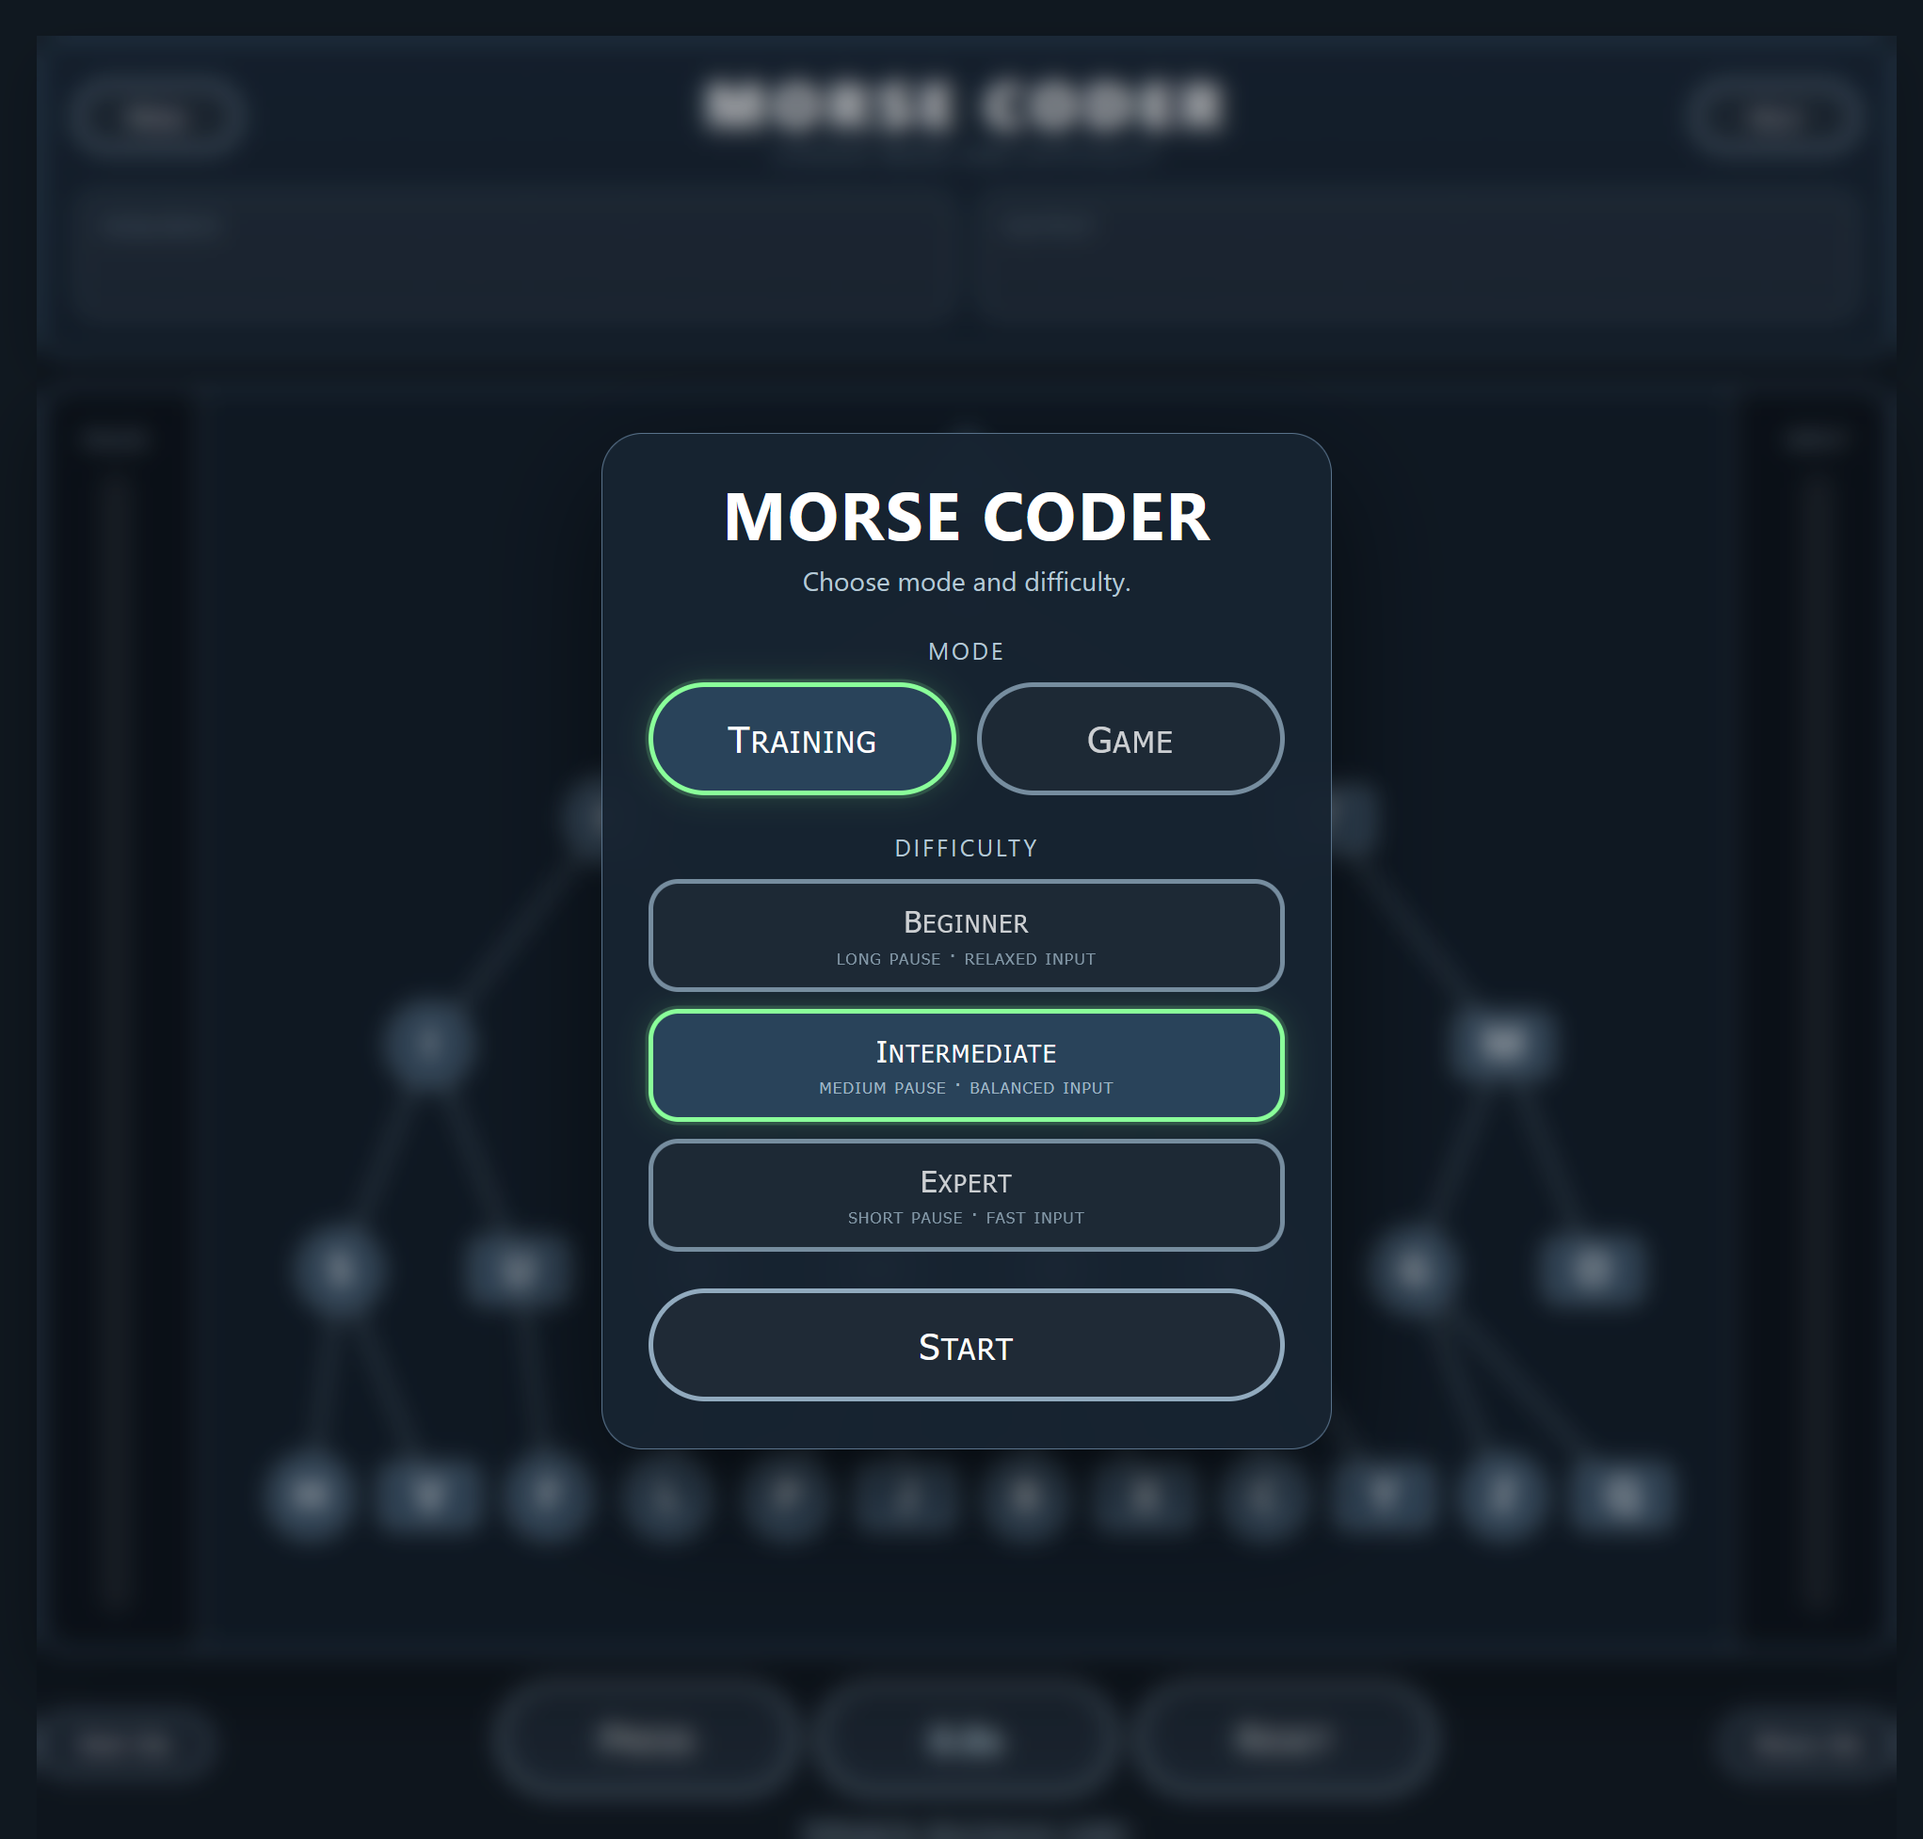
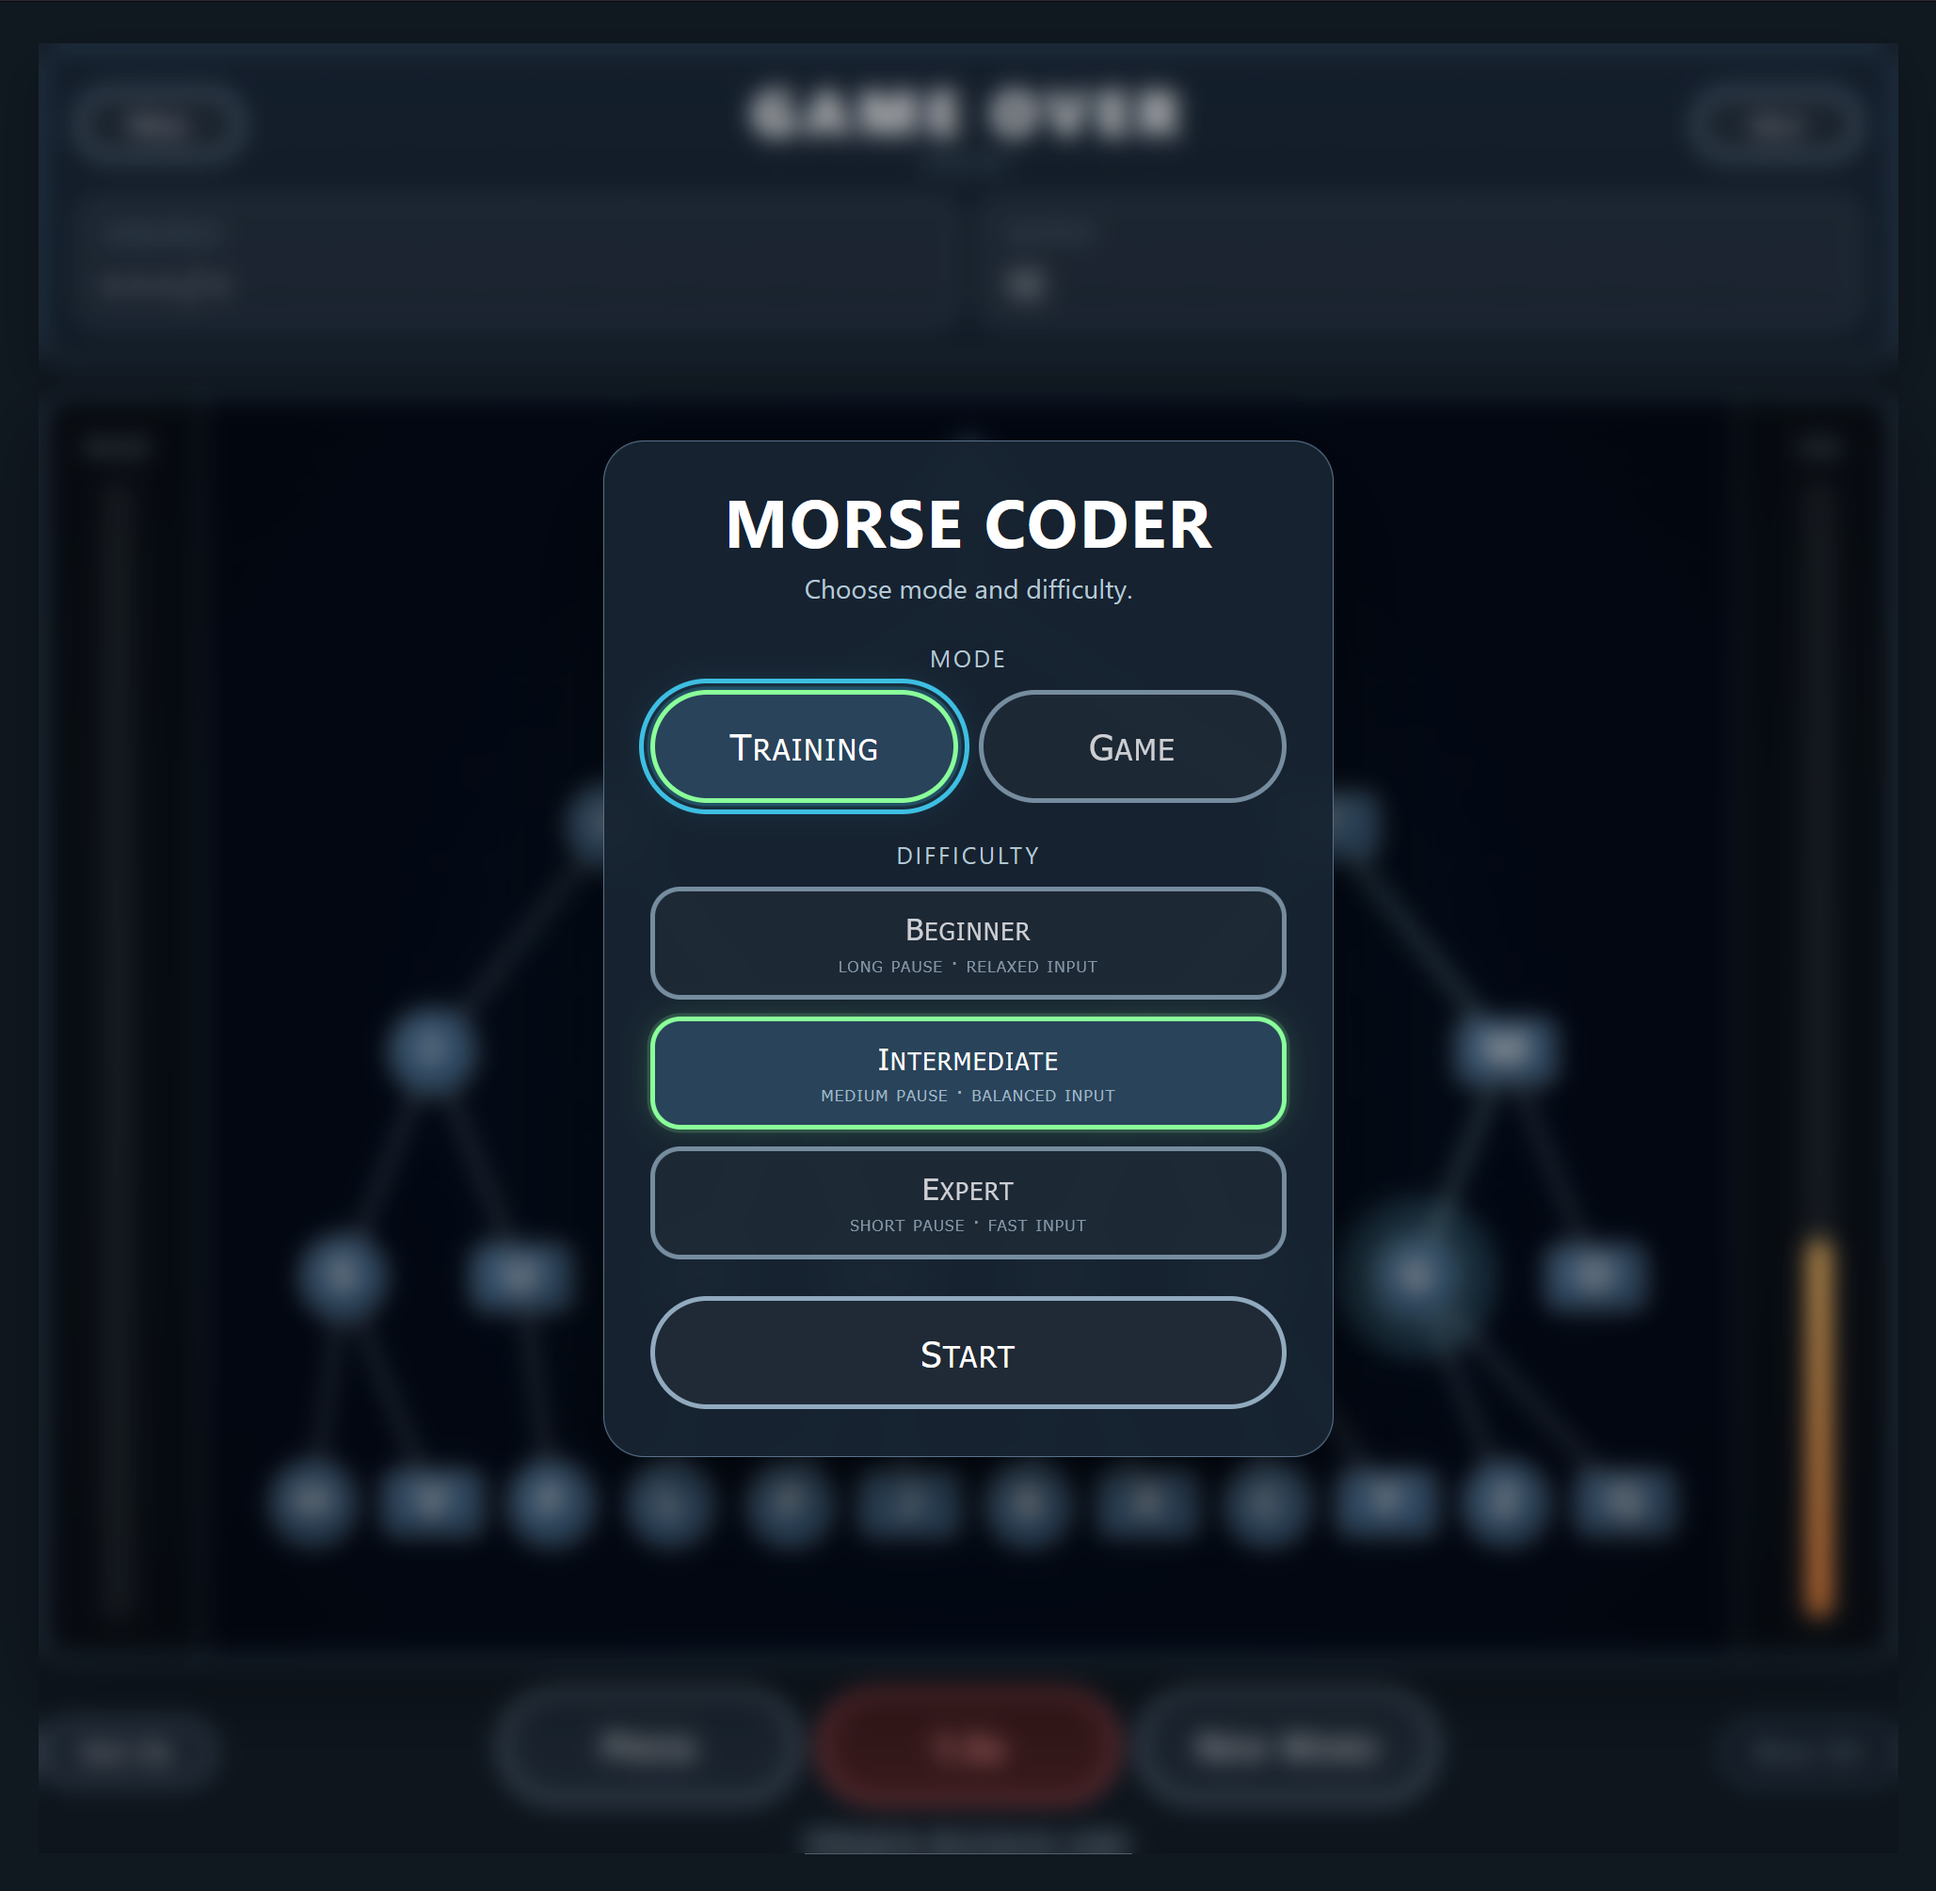
add fx & style, update screenshots

diff --git a/js/app.js b/js/app.js
@@ -154,6 +154,16 @@ const CONFIG = {
 
   NODE_BORDER_THICKNESS: 0.032,
   NODE_VISUAL_PADDING: 0.12,
+  NODE_DEPTH_OFFSET_X: 0.075,
+  NODE_DEPTH_OFFSET_Y: -0.075,
+  NODE_SHADOW_OPACITY: 0.34,
+  NODE_HIGHLIGHT_OPACITY: 0.13,
+  NODE_HIGHLIGHT_OFFSET_X: -0.035,
+  NODE_HIGHLIGHT_OFFSET_Y: 0.045,
+  LABEL_STROKE_WIDTH: 9,
+  LABEL_SHADOW_BLUR: 18,
+  LABEL_SHADOW_OFFSET_X: 7,
+  LABEL_SHADOW_OFFSET_Y: 8,
   DASH_CORNER_RADIUS: 0.16,
   EDGE_THICKNESS: 0.032,
 
@@ -184,7 +194,16 @@ const CONFIG = {
   NODE_CURRENT_GLOW_OPACITY: 0.28,
   NODE_PULSE_GLOW_OPACITY: 0.62,
   EDGE_BASE_GLOW_OPACITY: 0.32,
-  EDGE_PULSE_GLOW_OPACITY: 0.82
+  EDGE_PULSE_GLOW_OPACITY: 0.82,
+
+  // Screen / post FX
+  FX_ENABLED: true,
+  FX_SIGNAL_FLASH_MS: 90,
+  FX_CAMERA_DRIFT_ENABLED: true,
+  FX_CAMERA_DRIFT_X: 0.018,
+  FX_CAMERA_DRIFT_Y: 0.012,
+  FX_CAMERA_DRIFT_SPEED: 0.0014,
+  FX_TONE_MAPPING_EXPOSURE: 1.08
 };
 
 /* =========================
@@ -292,6 +311,7 @@ let backgroundMusicEnabled = CONFIG.BACKGROUND_NOISE_ENABLED;
 
 let menuFocusIndex = 0;
 
+let stageFxTimeoutId = null;
 let lastFrameTime = performance.now();
 
 const wordPoolIndexes = {
@@ -418,6 +438,16 @@ const renderer = new THREE.WebGLRenderer({ antialias: true, alpha: false });
 renderer.setPixelRatio(
   Math.min(window.devicePixelRatio || 1, CONFIG.MAX_DEVICE_PIXEL_RATIO)
 );
+
+if (THREE.SRGBColorSpace) {
+  renderer.outputColorSpace = THREE.SRGBColorSpace;
+}
+
+if (THREE.ACESFilmicToneMapping) {
+  renderer.toneMapping = THREE.ACESFilmicToneMapping;
+  renderer.toneMappingExposure = CONFIG.FX_TONE_MAPPING_EXPOSURE;
+}
+
 stage.appendChild(renderer.domElement);
 
 const boardGroup = new THREE.Group();
@@ -507,6 +537,41 @@ function scrollDisplayToEnd() {
   if (outputBox) {
     outputBox.scrollLeft = outputBox.scrollWidth;
   }
+}
+
+function flashStageFx(type) {
+  if (!CONFIG.FX_ENABLED || !stage) return;
+
+  clearTimeout(stageFxTimeoutId);
+
+  stage.classList.remove("is-signal-flash", "is-wrong-flash");
+
+  if (type === "wrong") {
+    stage.classList.add("is-wrong-flash");
+  } else {
+    const color =
+      type === "-"
+        ? "rgba(255, 177, 153, 0.22)"
+        : "rgba(138, 255, 154, 0.20)";
+
+    stage.style.setProperty("--signal-flash-color", color);
+    stage.classList.add("is-signal-flash");
+  }
+
+  stageFxTimeoutId = setTimeout(() => {
+    stage.classList.remove("is-signal-flash", "is-wrong-flash");
+  }, CONFIG.FX_SIGNAL_FLASH_MS);
+}
+
+function updateCameraFx(now) {
+  if (!CONFIG.FX_ENABLED || !CONFIG.FX_CAMERA_DRIFT_ENABLED) {
+    camera.position.x = 0;
+    camera.position.y = 0;
+    return;
+  }
+
+  camera.position.x = Math.sin(now * CONFIG.FX_CAMERA_DRIFT_SPEED) * CONFIG.FX_CAMERA_DRIFT_X;
+  camera.position.y = Math.cos(now * CONFIG.FX_CAMERA_DRIFT_SPEED * 0.73) * CONFIG.FX_CAMERA_DRIFT_Y;
 }
 
 /* =========================
@@ -895,12 +960,31 @@ function createTextSprite(text, size = 44, color = "#f3fbff") {
   canvas.height = 512;
 
   const ctx = canvas.getContext("2d");
+  const x = canvas.width / 2 - 2;
+  const y = canvas.height / 2 - 4;
+
   ctx.clearRect(0, 0, canvas.width, canvas.height);
   ctx.font = `650 ${size * 2}px system-ui, sans-serif`;
-  ctx.fillStyle = color;
   ctx.textAlign = "center";
   ctx.textBaseline = "middle";
-  ctx.fillText(text, canvas.width / 2, canvas.height / 2);
+
+  ctx.save();
+  ctx.shadowColor = "rgba(0, 0, 0, 0.62)";
+  ctx.shadowBlur = CONFIG.LABEL_SHADOW_BLUR;
+  ctx.shadowOffsetX = CONFIG.LABEL_SHADOW_OFFSET_X;
+  ctx.shadowOffsetY = CONFIG.LABEL_SHADOW_OFFSET_Y;
+  ctx.lineWidth = CONFIG.LABEL_STROKE_WIDTH;
+  ctx.strokeStyle = "rgba(5, 10, 16, 0.82)";
+  ctx.strokeText(text, x, y);
+  ctx.fillStyle = color;
+  ctx.fillText(text, x, y);
+  ctx.restore();
+
+  ctx.save();
+  ctx.globalAlpha = 0.32;
+  ctx.fillStyle = "#ffffff";
+  ctx.fillText(text, x - 4, y - 5);
+  ctx.restore();
 
   const texture = new THREE.CanvasTexture(canvas);
   texture.minFilter = THREE.LinearFilter;
@@ -1126,6 +1210,22 @@ function createNode(seq, letter) {
   glow.position.z = 0.01;
   boardGroup.add(glow);
 
+  const shadow = new THREE.Mesh(
+    borderGeometry.clone(),
+    new THREE.MeshBasicMaterial({
+      color: 0x050910,
+      transparent: true,
+      opacity: CONFIG.NODE_SHADOW_OPACITY,
+      depthWrite: false
+    })
+  );
+  shadow.position.set(
+    pos.x + CONFIG.NODE_DEPTH_OFFSET_X,
+    pos.y + CONFIG.NODE_DEPTH_OFFSET_Y,
+    0.025
+  );
+  boardGroup.add(shadow);
+
   const border = new THREE.Mesh(
     borderGeometry,
     new THREE.MeshBasicMaterial({ color: lineColor })
@@ -1142,8 +1242,26 @@ function createNode(seq, letter) {
   mesh.position.z = 0.05;
   boardGroup.add(mesh);
 
+  const highlight = new THREE.Mesh(
+    mainGeometry.clone(),
+    new THREE.MeshBasicMaterial({
+      color: 0xffffff,
+      transparent: true,
+      opacity: CONFIG.NODE_HIGHLIGHT_OPACITY,
+      blending: THREE.AdditiveBlending,
+      depthWrite: false
+    })
+  );
+  highlight.position.set(
+    pos.x + CONFIG.NODE_HIGHLIGHT_OFFSET_X,
+    pos.y + CONFIG.NODE_HIGHLIGHT_OFFSET_Y,
+    0.06
+  );
+  highlight.scale.set(0.82, 0.72, 1);
+  boardGroup.add(highlight);
+
   const label = createTextSprite(letter, CONFIG.NODE_LABEL_SIZE, "#f6fcff");
-  label.position.set(pos.x, pos.y, 0.09);
+  label.position.set(pos.x, pos.y, 0.105);
 
   if (isDot) {
     label.scale.set(CONFIG.DOT_LABEL_SCALE_X, CONFIG.DOT_LABEL_SCALE_Y, 1);
@@ -1540,6 +1658,7 @@ function finishLetter() {
 }
 
 function handleWrongSignal() {
+  flashStageFx("wrong");
   playSound("wrong");
 
   if (mode === "game") {
@@ -1584,6 +1703,7 @@ function triggerSignal(symbol) {
   nextSignalAllowedAt = now + getInputCooldownMs(symbol);
 
   flashInputButton();
+  flashStageFx(symbol);
   playSound(symbol === "-" ? "long" : "short");
 }
 
@@ -1694,6 +1814,7 @@ function animate(now = performance.now()) {
   updateRightMeter(now);
   updateGameOverIdle(now);
   updateGlowFade(deltaSeconds);
+  updateCameraFx(now);
 
   renderer.render(scene, camera);
 }
@@ -1822,7 +1943,7 @@ window.addEventListener("keydown", (e) => {
       return;
     }
   }
-  
+
   if (isVisible(roundEndBox)) {
     const key = e.key.toLowerCase();
 

diff --git a/css/styles.css b/css/styles.css
@@ -190,6 +190,10 @@ body {
   height: 100%;
   z-index: 1;
   pointer-events: none;
+  filter:
+    drop-shadow(0 10px 16px rgba(0, 0, 0, 0.28))
+    contrast(1.04)
+    saturate(1.05);
 }
 
 .music-toggle-btn,
@@ -571,4 +575,64 @@ body {
   opacity: 1;
   backdrop-filter: blur(7px);
   background: rgba(8, 12, 18, 0.26);
+}
+
+/* =========================
+   CRT / RADIO POST FX
+   ========================= */
+
+#stage::before,
+#stage::after {
+  content: "";
+  position: absolute;
+  inset: 0;
+  z-index: 3;
+  pointer-events: none;
+}
+
+#stage::before {
+  opacity: 0.18;
+  background:
+    repeating-linear-gradient(
+      to bottom,
+      rgba(255, 255, 255, 0.045) 0px,
+      rgba(255, 255, 255, 0.045) 1px,
+      rgba(0, 0, 0, 0.0) 2px,
+      rgba(0, 0, 0, 0.0) 5px
+    );
+  mix-blend-mode: screen;
+}
+
+#stage::after {
+  opacity: 1;
+  background:
+    radial-gradient(
+      circle at center,
+      rgba(255, 255, 255, 0.035) 0%,
+      rgba(67, 216, 255, 0.025) 32%,
+      rgba(0, 0, 0, 0.0) 54%,
+      rgba(0, 0, 0, 0.42) 100%
+    );
+}
+
+#stage.is-signal-flash::after {
+  background:
+    radial-gradient(
+      circle at center,
+      var(--signal-flash-color, rgba(138, 255, 154, 0.18)) 0%,
+      rgba(67, 216, 255, 0.05) 28%,
+      rgba(0, 0, 0, 0.0) 56%,
+      rgba(0, 0, 0, 0.42) 100%
+    );
+}
+
+#stage.is-wrong-flash::after {
+  background:
+    radial-gradient(
+      circle at center,
+      rgba(255, 72, 72, 0.24) 0%,
+      rgba(255, 90, 60, 0.08) 28%,
+      rgba(0, 0, 0, 0.0) 56%,
+      rgba(0, 0, 0, 0.46) 100%
+    );
 }
